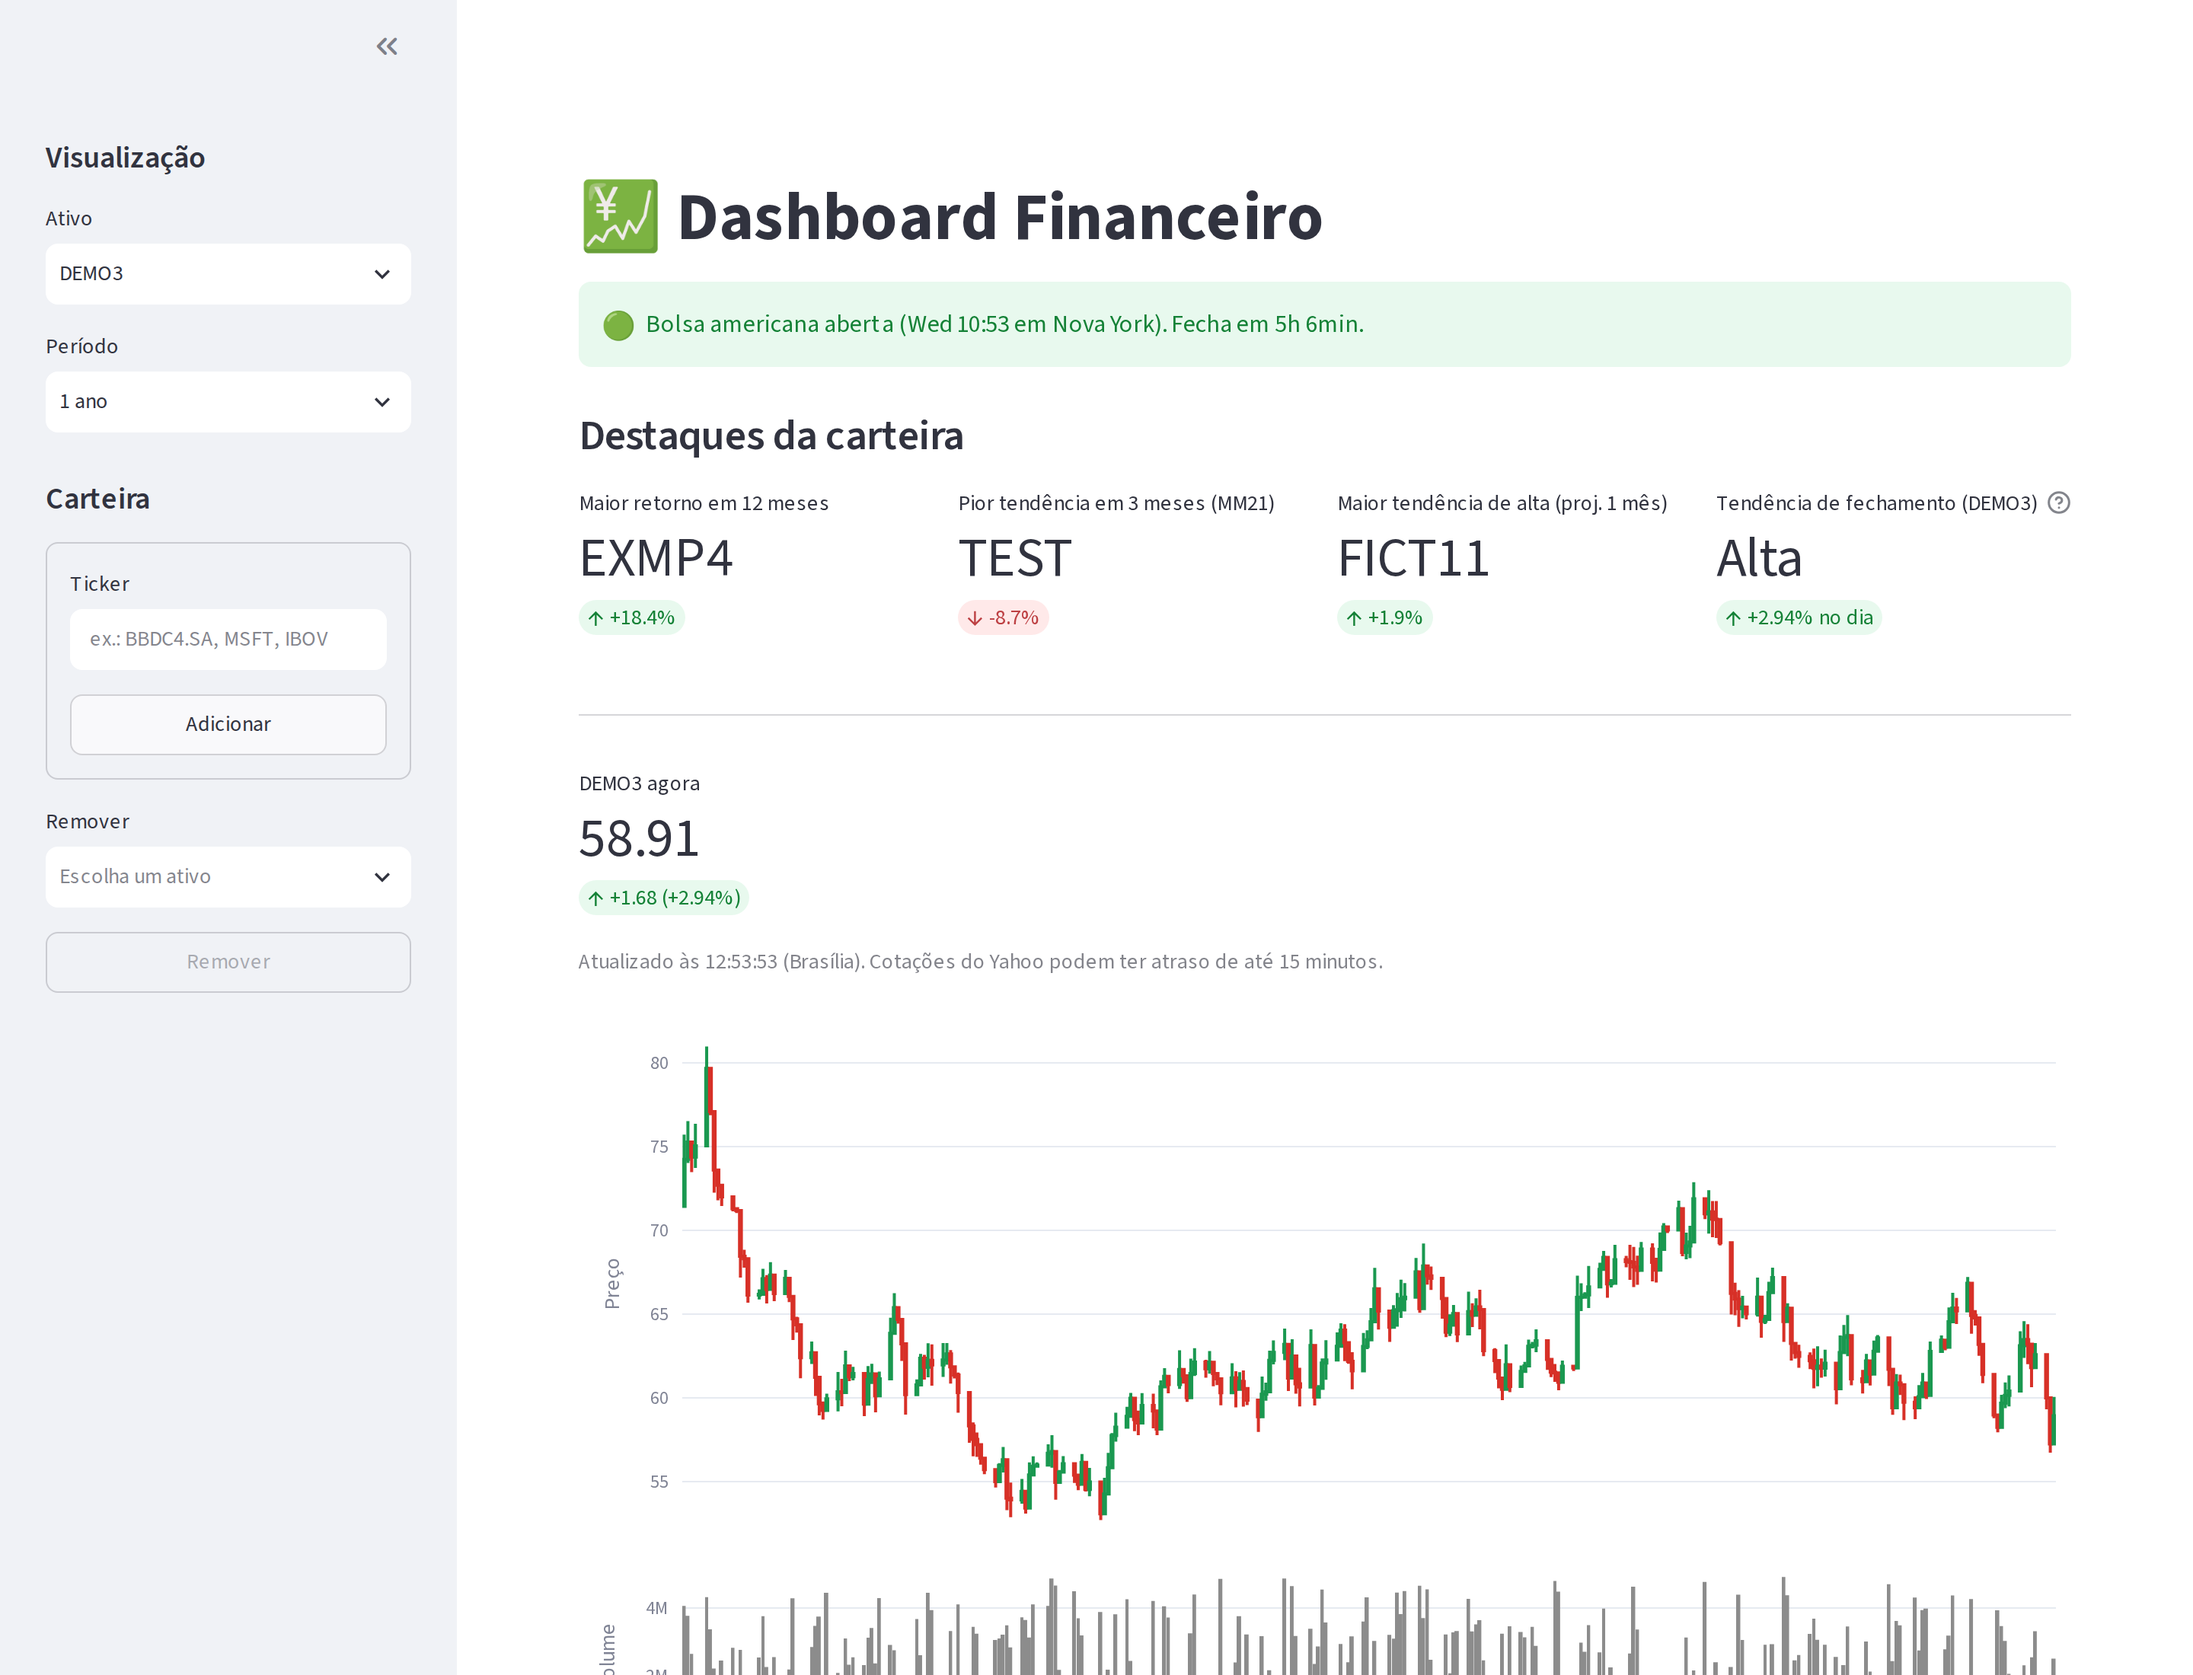
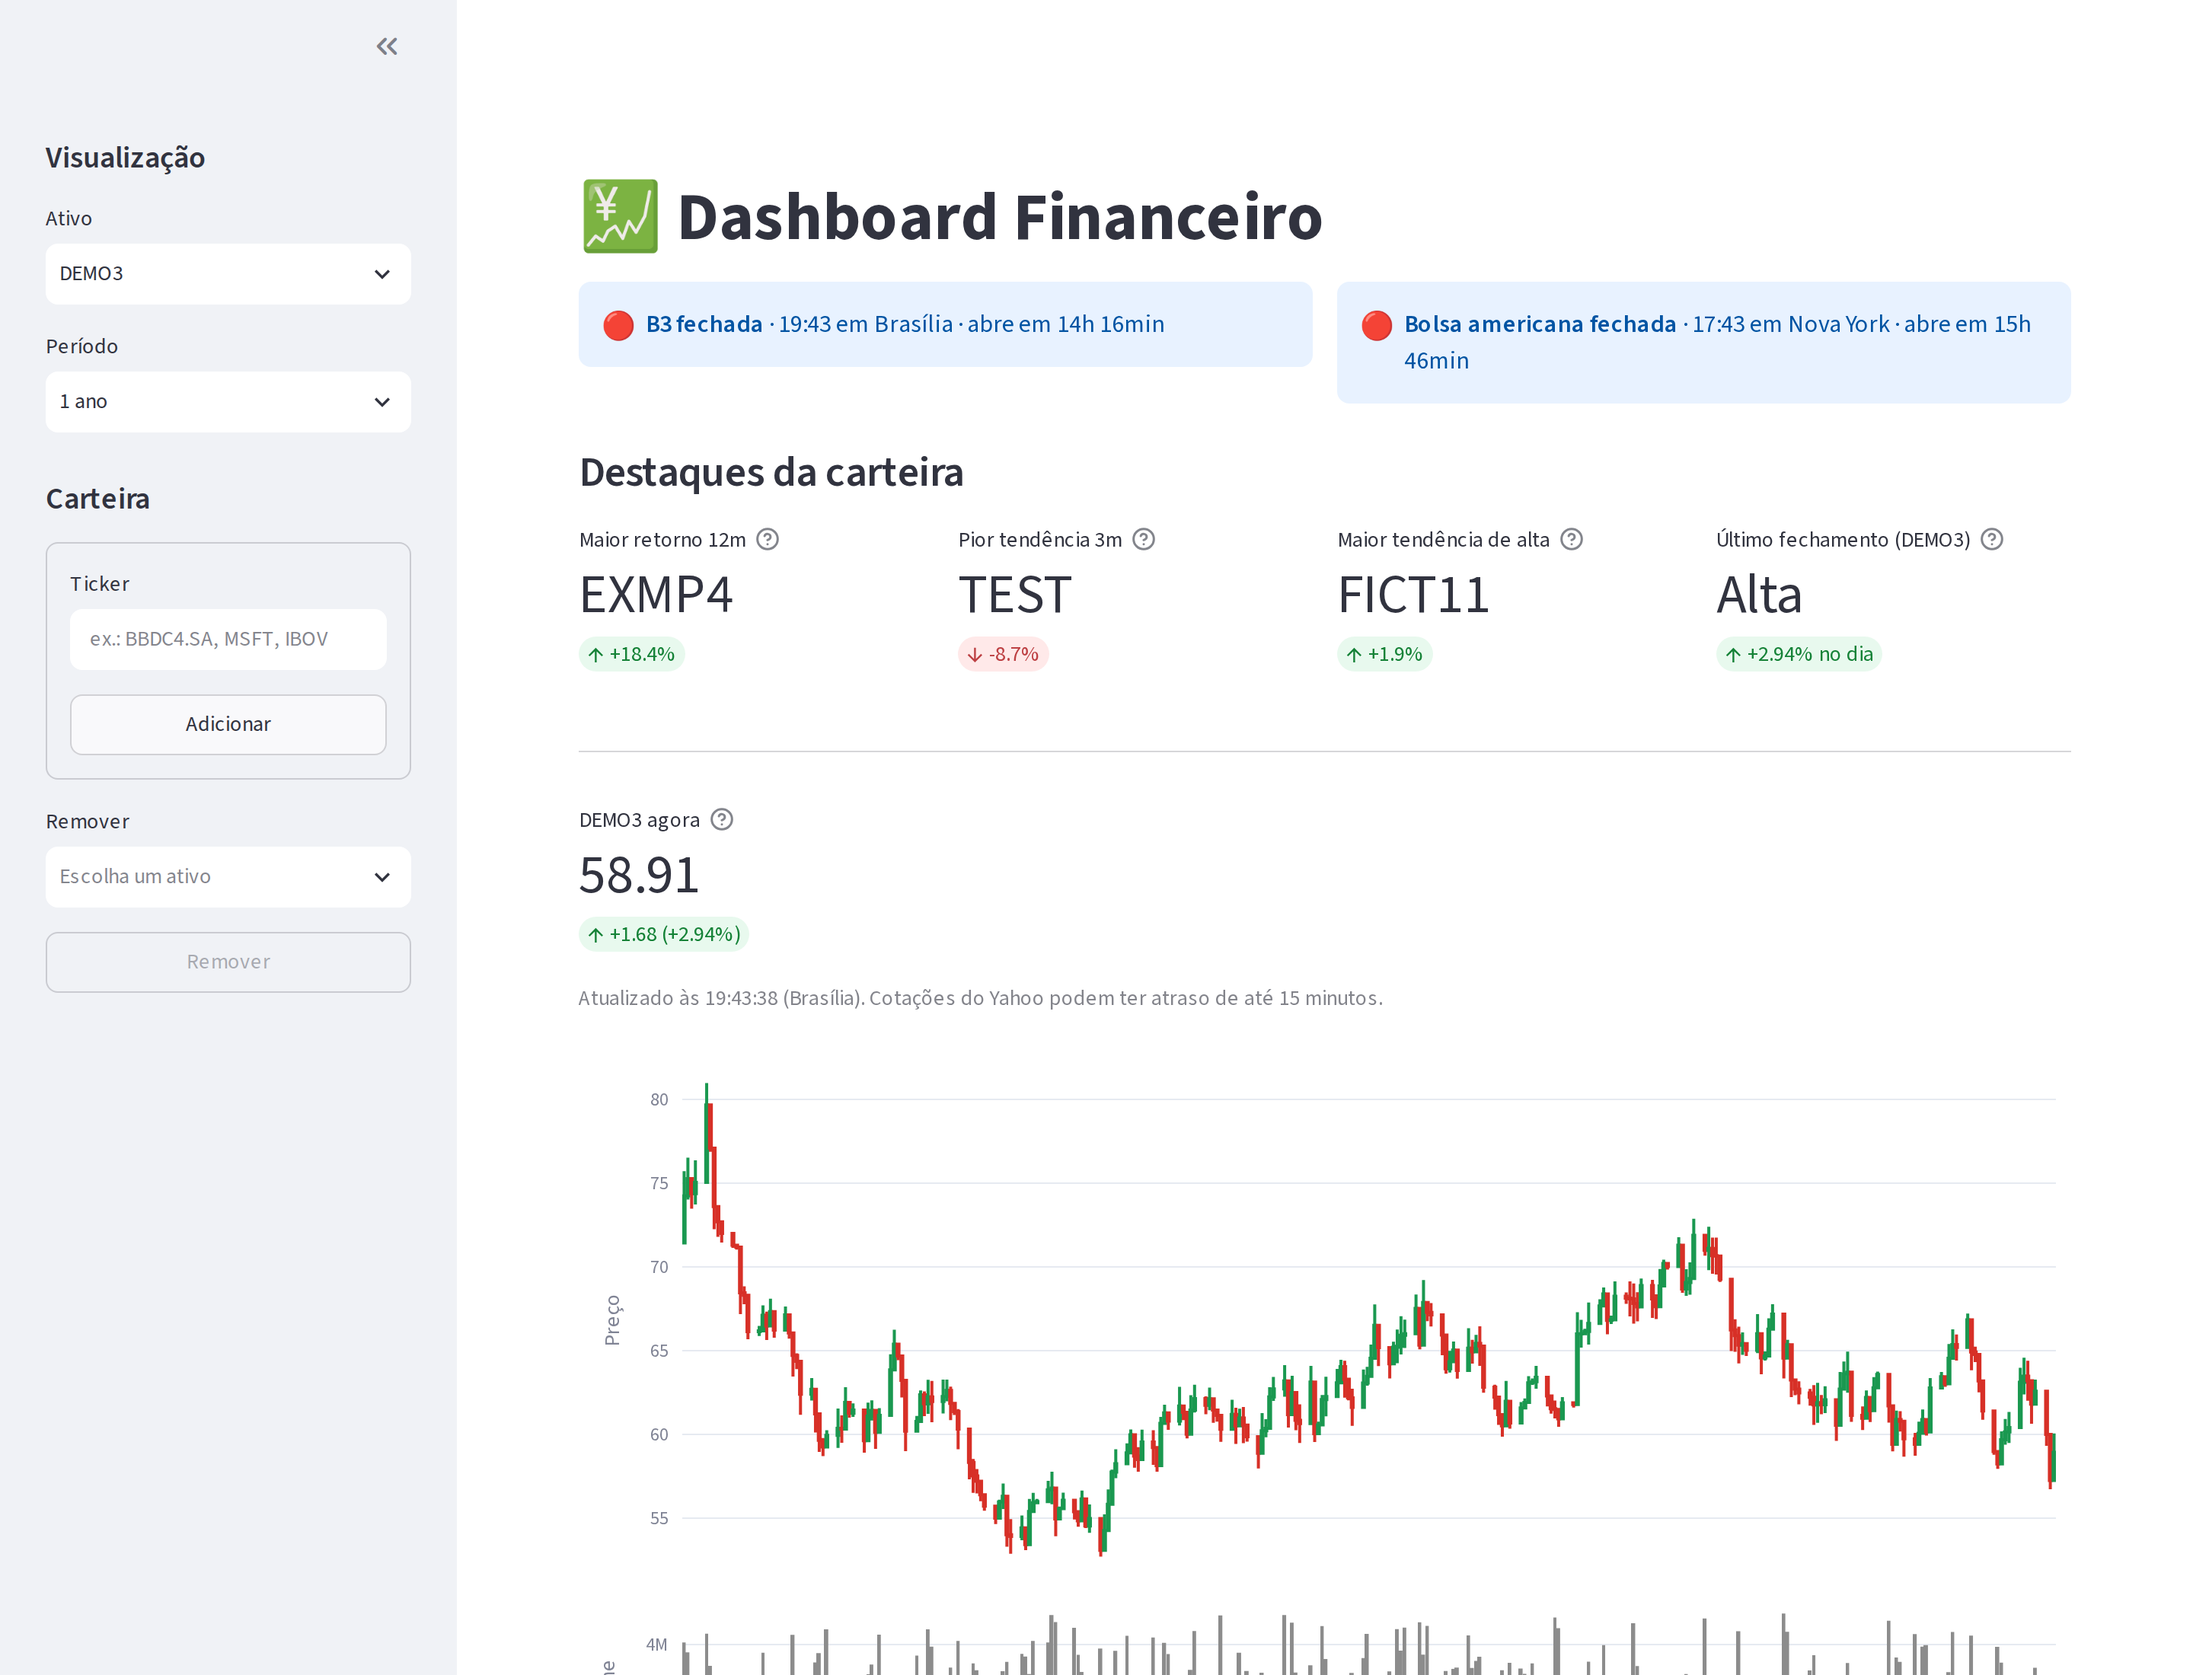
docs: link da demo, arquitetura atualizada e captura nova (#8)
* docs: adiciona o link da demo, atualiza a arquitetura e regenera a captura

* docs: adiciona captura de tela do dashboard

---------

diff --git a/README.md b/README.md
@@ -3,10 +3,16 @@
 [![CI](https://github.com/BigLeno/streamlitPipeline/actions/workflows/ci.yml/badge.svg)](https://github.com/BigLeno/streamlitPipeline/actions/workflows/ci.yml)
 ![Python](https://img.shields.io/badge/python-3.10%2B-blue)
 ![Streamlit](https://img.shields.io/badge/Streamlit-FF4B4B?logo=streamlit&logoColor=white)
+![Docker](https://img.shields.io/badge/Docker-2496ED?logo=docker&logoColor=white)
+
+[![Abrir no Streamlit](https://static.streamlit.io/badges/streamlit_badge_black_white.svg)](https://dashboard-financeiro-bigleno.streamlit.app)
 
 Dashboard em Streamlit para acompanhar uma carteira de ações brasileiras e americanas: cotação,
 gráfico de candles, indicadores técnicos, retornos mensais, correlação entre ativos e destaques da
 carteira. O histórico fica salvo em banco e é atualizado de forma incremental.
+
+**Demo:** [dashboard-financeiro-bigleno.streamlit.app](https://dashboard-financeiro-bigleno.streamlit.app)
+(no plano gratuito, o app "dorme" sem visitas e leva alguns segundos para acordar).
 
 ![Dashboard com dados sintéticos](docs/dashboard.png)
 
@@ -14,8 +20,9 @@ carteira. O histórico fica salvo em banco e é atualizado de forma incremental.
 
 ## Funcionalidades
 
-- **Carteira:** adicione e remova tickers do Yahoo Finance (`PETR4.SA`, `AAPL`, índices como `^BVSP`...). Apelidos comuns como `IBOV` e `SP500` são convertidos para o código do Yahoo. O ticker é validado
-  antes de entrar na carteira.
+- **Carteira:** adicione e remova tickers do Yahoo Finance (`PETR4.SA`, `AAPL`, índices como `^BVSP`...).
+  Apelidos como `IBOV` e `SP500` são convertidos para o código do Yahoo, e o ticker é validado antes de
+  entrar na carteira. O app abre com o Ibovespa selecionado.
 - **Histórico incremental:** na primeira vez baixa 5 anos; depois, só os dias que faltam, com alguns dias de
   sobreposição para pegar correções da fonte. Rodar de novo não duplica linhas.
 - **Gráficos:** candles com volume, retorno acumulado, volatilidade anualizada, drawdown, médias móveis,
@@ -36,12 +43,17 @@ carteira. O histórico fica salvo em banco e é atualizado de forma incremental.
 ```
 streamlit_app.py        # interface (Streamlit + Plotly)
 dashboard/
-├── market_data.py      # Yahoo Finance via yfinance e uma fonte sintética para demo e testes
-├── storage.py          # carteira e histórico com SQLAlchemy (SQLite por padrão)
+├── market_data.py      # Yahoo Finance via yfinance, apelidos de tickers e fonte sintética para demo e testes
+├── storage.py          # carteira e histórico com SQLAlchemy (SQLite ou PostgreSQL)
 ├── sync.py             # atualização incremental do histórico
 ├── indicators.py       # indicadores técnicos (funções puras sobre séries do pandas)
-├── highlights.py       # destaques da carteira
-└── market_hours.py     # horário do pregão americano
+├── highlights.py       # destaques da carteira e tendência do dia
+├── explanations.py     # textos de ajuda e leitura de cada análise
+└── market_hours.py     # horário de pregão da B3 e da bolsa americana
+tests/                  # testes unitários e teste do app inteiro (AppTest)
+Dockerfile              # imagem slim, usuário sem privilégios e healthcheck
+docker-compose.yml      # app + PostgreSQL
+.github/workflows/      # CI/CD: lint, testes, Docker e publicação no GHCR
 ```
 
 Os cálculos não dependem da interface, da rede nem do banco, então são testados isoladamente com
